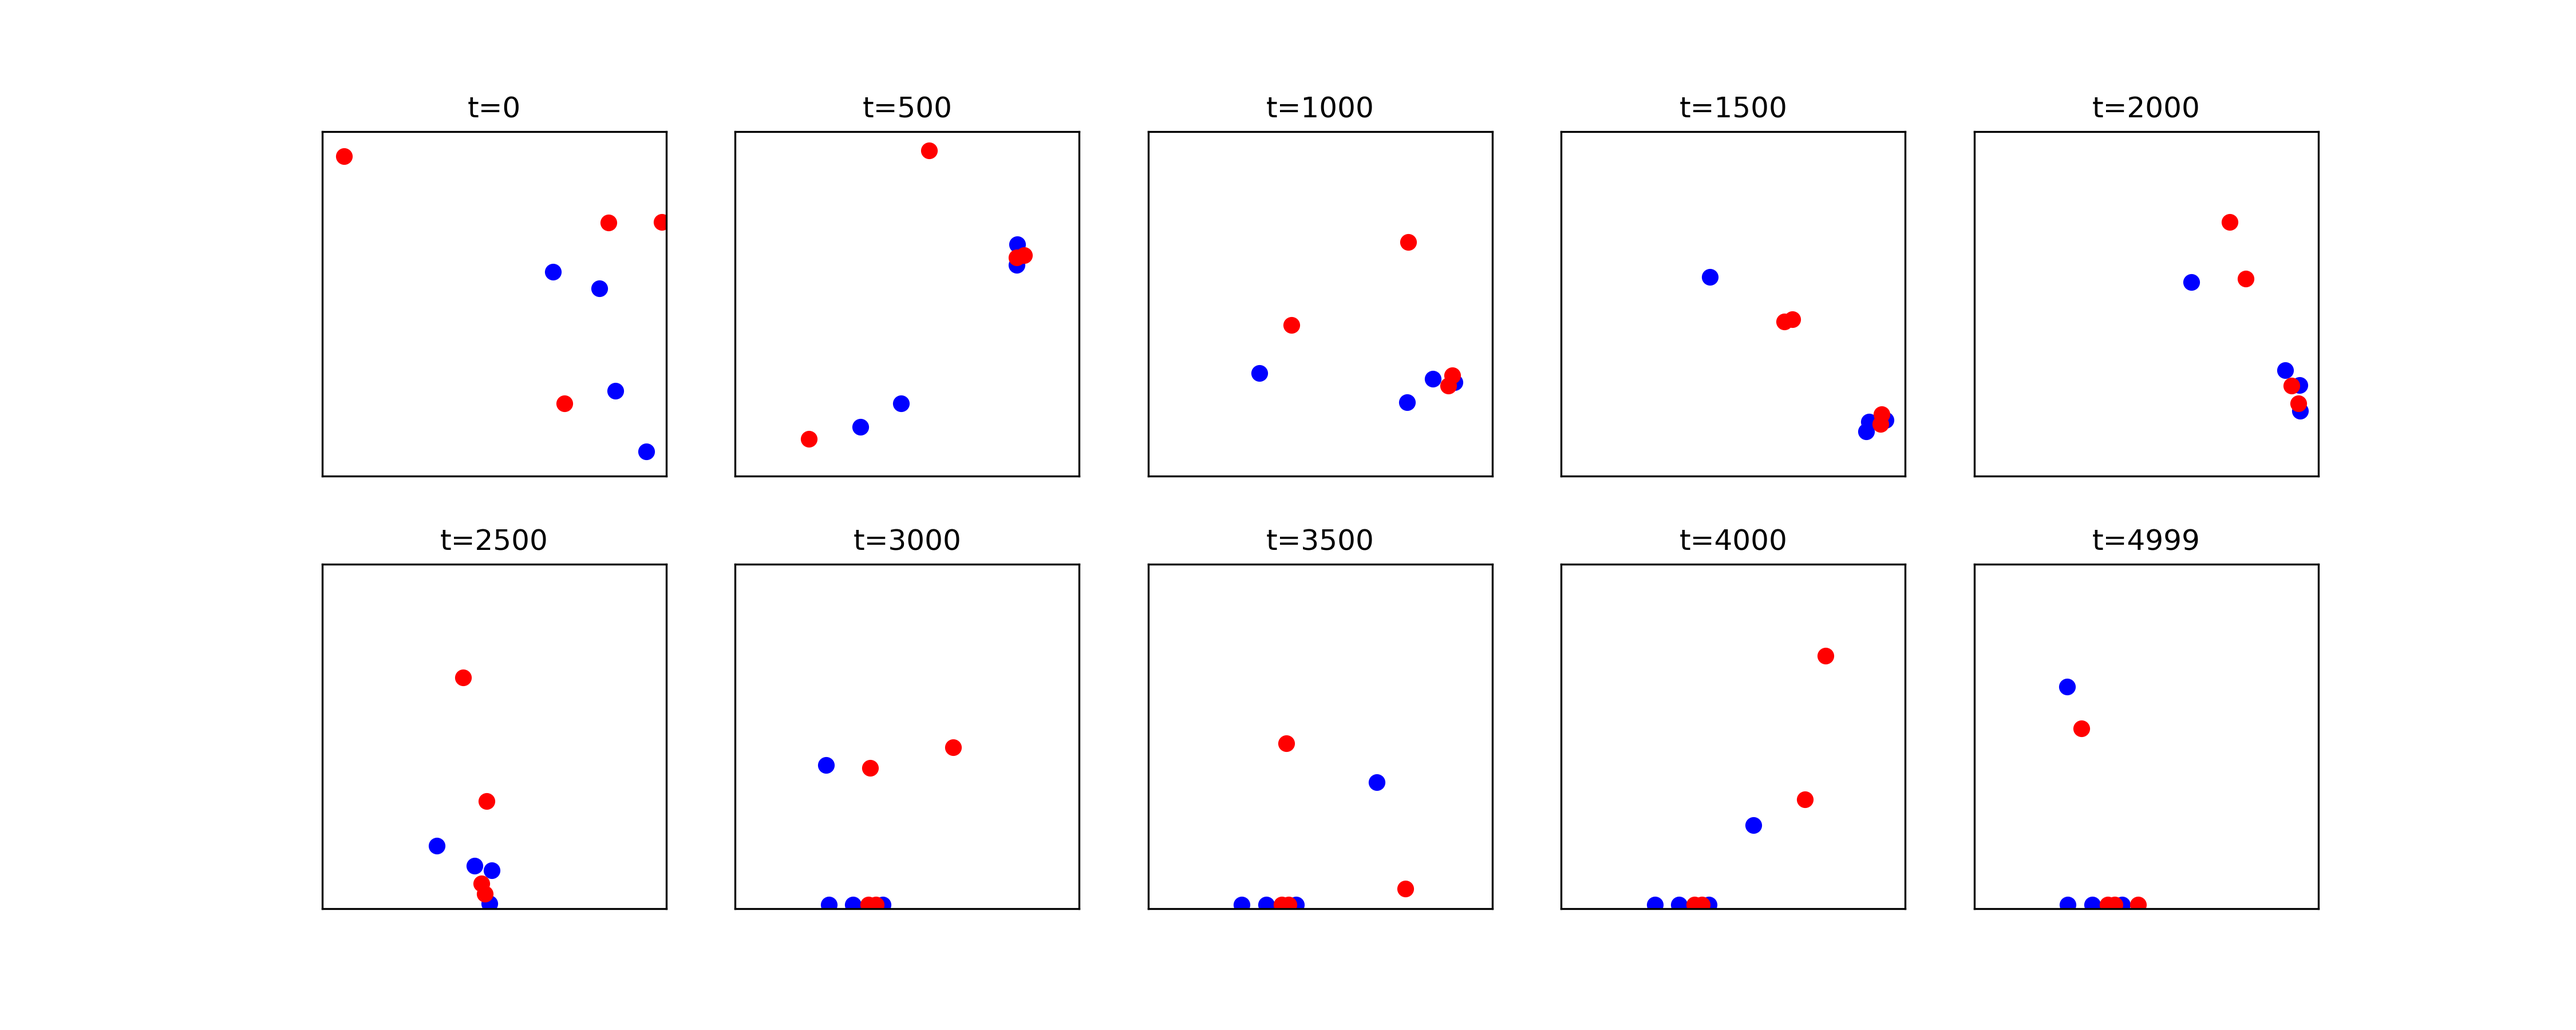
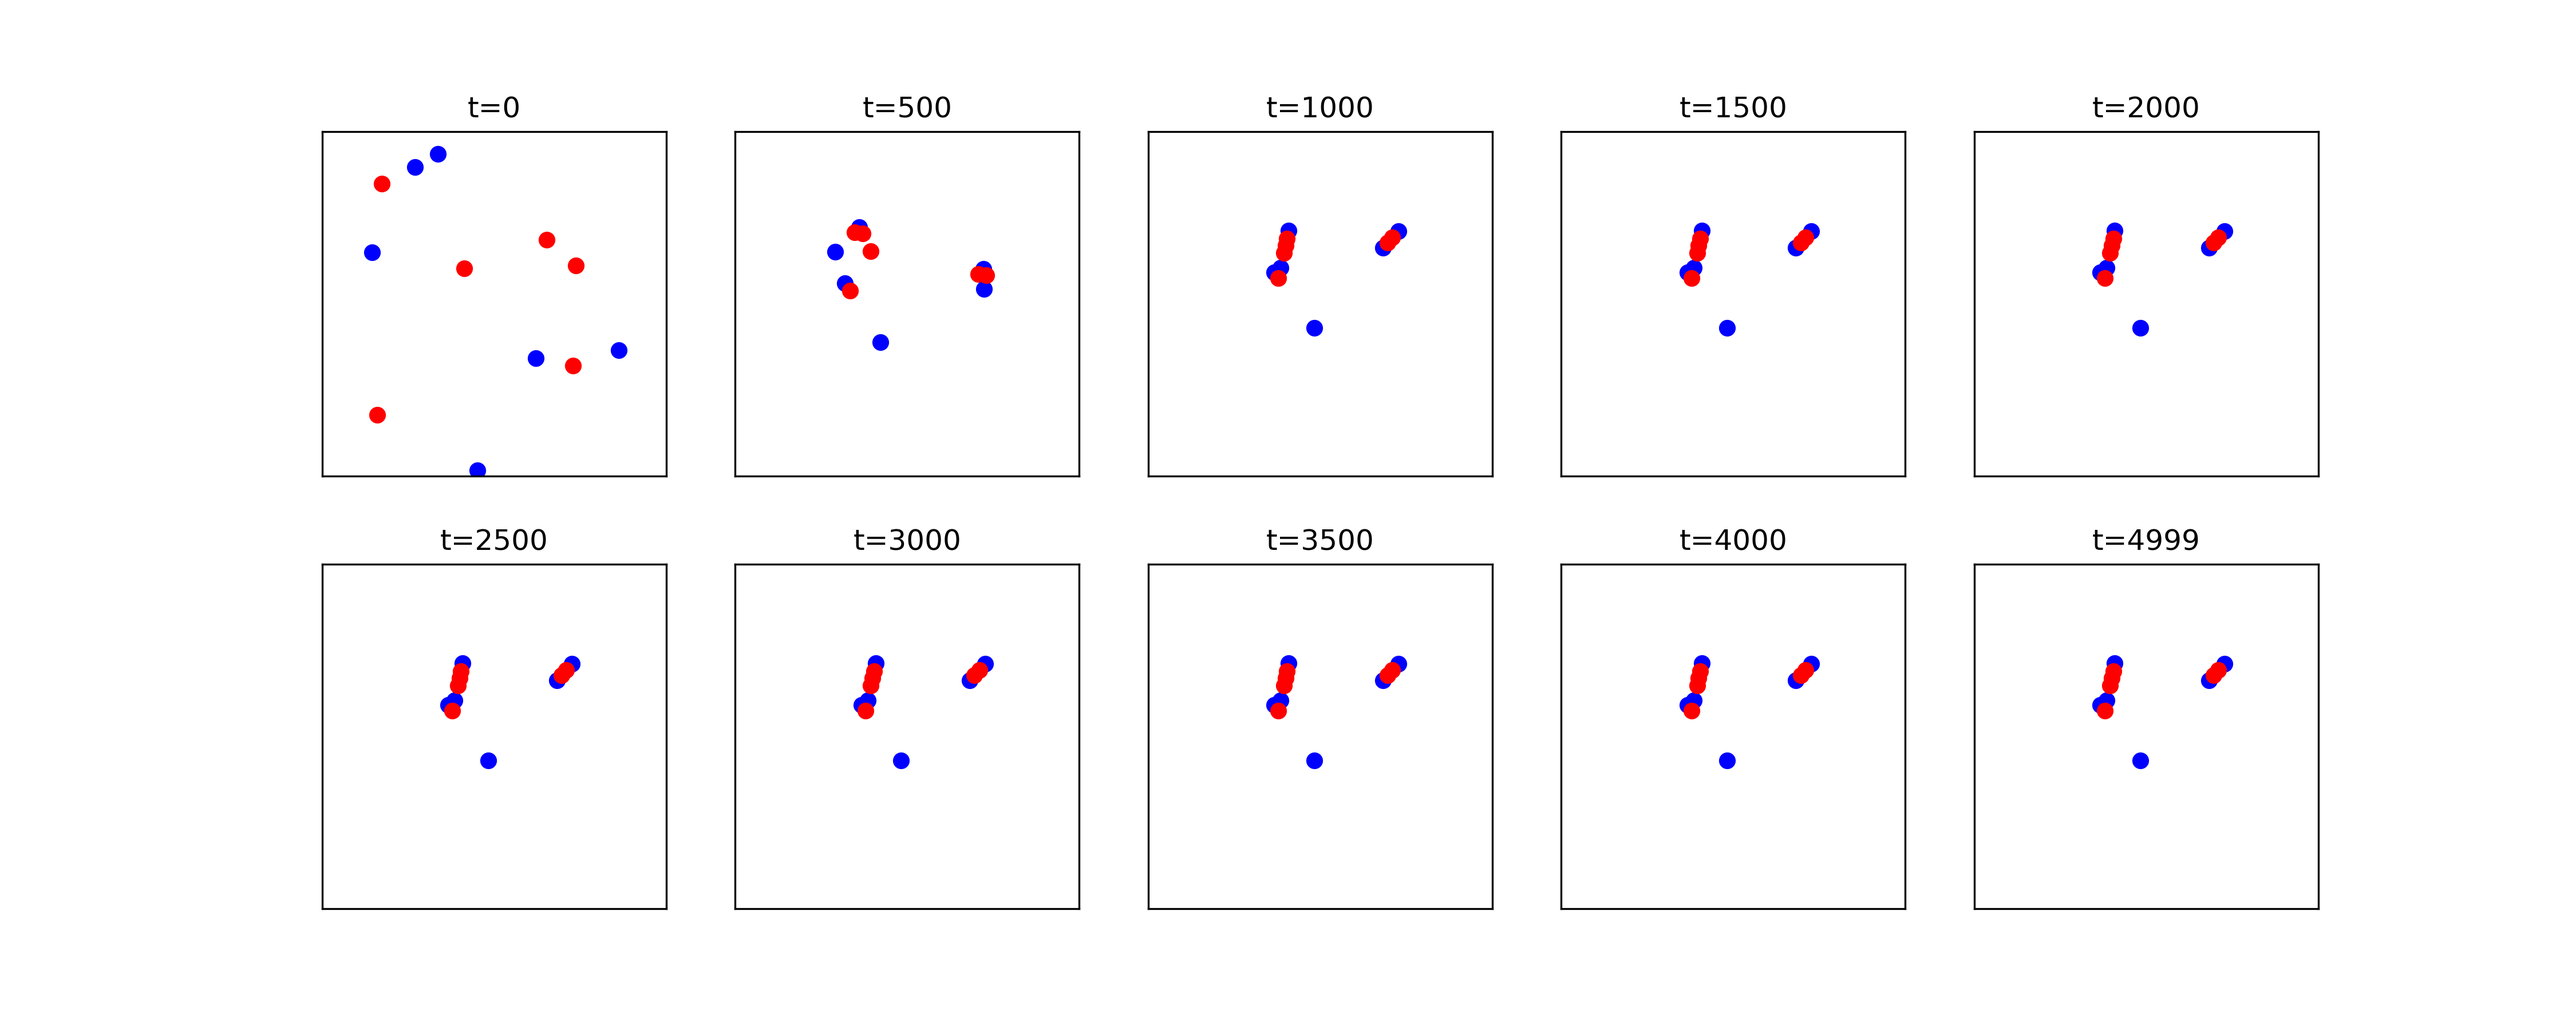
fixed plot_movements

diff --git a/run_multi_agent_sim.py b/run_multi_agent_sim.py
@@ -58,7 +58,7 @@ if __name__ == "__main__":
     ####################
     # Time-lapse plots #
     ####################
-    sim = main(world, plot=False)
+    sim = main(world, plot=True)
 
     fig, axs = plt.subplots(2,5, figsize=(15,6))
     times = np.linspace(0, len(sim.history)-1, 10).astype(int)
@@ -78,136 +78,136 @@ if __name__ == "__main__":
         ax.set_yticks([])
     plt.savefig("figures/time_lapse.png", dpi=300)
 
-    ###########################
-    # Run several simulations #
-    ###########################
-    sims = []
-    # create tqdm
-    N = 100
-    pbar = tqdm(total=N)
-    for i in range(N):
-        sims.append(main(world))
-        pbar.update(1)
-    pbar.close()
+    # ###########################
+    # # Run several simulations #
+    # ###########################
+    # sims = []
+    # # create tqdm
+    # N = 100
+    # pbar = tqdm(total=N)
+    # for i in range(N):
+    #     sims.append(main(world))
+    #     pbar.update(1)
+    # pbar.close()
 
-    ###############
-    # Density Fig #
-    ###############
-    mean_pos_teams = []
-    for sim in sims:
-        # compute the mean position of each team
-        mean_pos_teams.append(get_density(sim,rotate=False))
-    mean_pos_teams = np.array(mean_pos_teams)
+    # ###############
+    # # Density Fig #
+    # ###############
+    # mean_pos_teams = []
+    # for sim in sims:
+    #     # compute the mean position of each team
+    #     mean_pos_teams.append(get_density(sim,rotate=False))
+    # mean_pos_teams = np.array(mean_pos_teams)
 
-    # Create a heatmap of the mean position of each team
-    # Create a grid of worldsize and add an occurrence of 1 at each position of the mean position of each team
-    grid_world = World([-100,100])
-    density = np.zeros((int(grid_world.x_lim[-1]-grid_world.x_lim[0]), 
-                        int(grid_world.y_lim[-1]-grid_world.y_lim[0])))
+    # # Create a heatmap of the mean position of each team
+    # # Create a grid of worldsize and add an occurrence of 1 at each position of the mean position of each team
+    # grid_world = World([-100,100])
+    # density = np.zeros((int(grid_world.x_lim[-1]-grid_world.x_lim[0]), 
+    #                     int(grid_world.y_lim[-1]-grid_world.y_lim[0])))
     
-    for it,data in enumerate(mean_pos_teams):
-        # team A -> +1
-        x,y = pos_to_grid(data[0], density, grid_world)
-        xs,ys = circle_around_index(x,y, 5, density)
-        for x,y in zip(xs,ys):
-            density[x,y] += 1
-        # team B -> -1
-        x,y = pos_to_grid(data[1], density, grid_world)
-        xs,ys = circle_around_index(x,y, 5, density)
-        for x,y in zip(xs,ys):
-            density[x,y] -= 1
+    # for it,data in enumerate(mean_pos_teams):
+    #     # team A -> +1
+    #     x,y = pos_to_grid(data[0], density, grid_world)
+    #     xs,ys = circle_around_index(x,y, 5, density)
+    #     for x,y in zip(xs,ys):
+    #         density[x,y] += 1
+    #     # team B -> -1
+    #     x,y = pos_to_grid(data[1], density, grid_world)
+    #     xs,ys = circle_around_index(x,y, 5, density)
+    #     for x,y in zip(xs,ys):
+    #         density[x,y] -= 1
 
-    # Plot the heatmap
-    fig, ax = plt.subplots()
-    ax.imshow(density.T, cmap='coolwarm', interpolation='hermite',
-              extent=[grid_world.x_lim[0], grid_world.x_lim[1], grid_world.y_lim[0], grid_world.y_lim[1]])
-    # change the x and y ticks to match grid_world
-    x_range = np.linspace(grid_world.x_lim[0], grid_world.x_lim[1], density.shape[0])
-    y_range = np.linspace(grid_world.y_lim[0], grid_world.y_lim[1], density.shape[1])
-    ax.set_xticks(np.arange(grid_world.x_lim[0], grid_world.x_lim[1]+0.1, 20))
-    ax.set_yticks(np.arange(grid_world.y_lim[0], grid_world.y_lim[1]+0.1, 20))
-    plt.savefig("figures/density.png", dpi=300)
+    # # Plot the heatmap
+    # fig, ax = plt.subplots()
+    # ax.imshow(density.T, cmap='coolwarm', interpolation='hermite',
+    #           extent=[grid_world.x_lim[0], grid_world.x_lim[1], grid_world.y_lim[0], grid_world.y_lim[1]])
+    # # change the x and y ticks to match grid_world
+    # x_range = np.linspace(grid_world.x_lim[0], grid_world.x_lim[1], density.shape[0])
+    # y_range = np.linspace(grid_world.y_lim[0], grid_world.y_lim[1], density.shape[1])
+    # ax.set_xticks(np.arange(grid_world.x_lim[0], grid_world.x_lim[1]+0.1, 20))
+    # ax.set_yticks(np.arange(grid_world.y_lim[0], grid_world.y_lim[1]+0.1, 20))
+    # plt.savefig("figures/density.png", dpi=300)
 
-    #####################
-    # Rotated Histogram #
-    #####################
-    # here we get the mean density of both teams, and rotate the mean position of team A to the x-axis
-    # as the agents always converge to a line, we can plot this then on a 1D histogram
-    mean_pos_teams = []
-    for sim in sims:
-        # compute the mean position of each team
-        mean_pos_teams.append(get_density(sim,rotate=True))
-    mean_pos_teams = np.array(mean_pos_teams)
+    # #####################
+    # # Rotated Histogram #
+    # #####################
+    # # here we get the mean density of both teams, and rotate the mean position of team A to the x-axis
+    # # as the agents always converge to a line, we can plot this then on a 1D histogram
+    # mean_pos_teams = []
+    # for sim in sims:
+    #     # compute the mean position of each team
+    #     mean_pos_teams.append(get_density(sim,rotate=True))
+    # mean_pos_teams = np.array(mean_pos_teams)
 
-    # indexing is [simulation, team, x/y]
-    mean_x_pos_teams = mean_pos_teams[:,:,0]
-    mean_x_pos_A = mean_x_pos_teams[:,0]
-    mean_x_pos_B = mean_x_pos_teams[:,1]
+    # # indexing is [simulation, team, x/y]
+    # mean_x_pos_teams = mean_pos_teams[:,:,0]
+    # mean_x_pos_A = mean_x_pos_teams[:,0]
+    # mean_x_pos_B = mean_x_pos_teams[:,1]
 
-    # Create a histogram of the mean position of each team
-    fig, axs = plt.subplots(1,1, figsize=(12,6))
-    axs.hist(mean_x_pos_A, bins=20, alpha=0.5, color='blue', label='Team A')
-    axs.hist(mean_x_pos_B, bins=20, alpha=0.5, color='red', label='Team B')
-    axs.set_xlabel("Mean x position")
-    axs.set_ylabel("Frequency")
-    axs.legend()
-    plt.savefig("figures/histogram.png", dpi=300)
+    # # Create a histogram of the mean position of each team
+    # fig, axs = plt.subplots(1,1, figsize=(12,6))
+    # axs.hist(mean_x_pos_A, bins=20, alpha=0.5, color='blue', label='Team A')
+    # axs.hist(mean_x_pos_B, bins=20, alpha=0.5, color='red', label='Team B')
+    # axs.set_xlabel("Mean x position")
+    # axs.set_ylabel("Frequency")
+    # axs.legend()
+    # plt.savefig("figures/histogram.png", dpi=300)
 
-    ####################
-    # Seperation index #
-    ####################
-    # here we plot the separation index of each simulation
-    # orderliness = avg_inter_team_distance / (avg_intra_team_distance_A + avg_intra_team_distance_B)/2
-    # Get the separation of all sims over time
-    orderlinesses = []
-    intra_team_distances = []
-    for sim in sims:
-        indices = []
-        distances = []
-        # we do this for each sim, loop through the history and get the separation index
-        for sim_state in sim.history:
-            orderliness, total_intra_team_distance = get_separation_index(sim_state)
-            indices.append(orderliness)
-            distances.append(total_intra_team_distance)
-        orderlinesses.append(indices)
-        intra_team_distances.append(distances)
+    # ####################
+    # # Seperation index #
+    # ####################
+    # # here we plot the separation index of each simulation
+    # # orderliness = avg_inter_team_distance / (avg_intra_team_distance_A + avg_intra_team_distance_B)/2
+    # # Get the separation of all sims over time
+    # orderlinesses = []
+    # intra_team_distances = []
+    # for sim in sims:
+    #     indices = []
+    #     distances = []
+    #     # we do this for each sim, loop through the history and get the separation index
+    #     for sim_state in sim.history:
+    #         orderliness, total_intra_team_distance = get_separation_index(sim_state)
+    #         indices.append(orderliness)
+    #         distances.append(total_intra_team_distance)
+    #     orderlinesses.append(indices)
+    #     intra_team_distances.append(distances)
     
-    # Now plot the orderliness over time
-    fig, axs = plt.subplots(1,1, figsize=(12,6))
-    for sim in orderlinesses:
-        axs.plot(sim)
-    axs.set_xlabel("Time")
-    axs.set_ylabel("Orderliness index")
-    plt.savefig("figures/orderliness_index.png", dpi=300)
+    # # Now plot the orderliness over time
+    # fig, axs = plt.subplots(1,1, figsize=(12,6))
+    # for sim in orderlinesses:
+    #     axs.plot(sim)
+    # axs.set_xlabel("Time")
+    # axs.set_ylabel("Orderliness index")
+    # plt.savefig("figures/orderliness_index.png", dpi=300)
 
-    # Now plot the intra team distances over time
-    fig, axs = plt.subplots(1,1, figsize=(12,6))
-    for sim in intra_team_distances:
-        axs.plot(sim)
-    axs.set_xlabel("Time")
-    axs.set_ylabel("Intra team distances")
-    plt.savefig("figures/intra_team_distances_index.png", dpi=300)
+    # # Now plot the intra team distances over time
+    # fig, axs = plt.subplots(1,1, figsize=(12,6))
+    # for sim in intra_team_distances:
+    #     axs.plot(sim)
+    # axs.set_xlabel("Time")
+    # axs.set_ylabel("Intra team distances")
+    # plt.savefig("figures/intra_team_distances_index.png", dpi=300)
 
-    # Create a plot with the mean and standard deviation over time for all the different simulations
-    mean_orderlinesses_index = np.mean(orderlinesses, axis=0)
-    std_orderlinesses_index = np.std(orderlinesses, axis=0)
+    # # Create a plot with the mean and standard deviation over time for all the different simulations
+    # mean_orderlinesses_index = np.mean(orderlinesses, axis=0)
+    # std_orderlinesses_index = np.std(orderlinesses, axis=0)
 
-    mean_intra_team_distances_index = np.mean(intra_team_distances, axis=0)
-    std_intra_team_distances_index = np.std(intra_team_distances, axis=0)
+    # mean_intra_team_distances_index = np.mean(intra_team_distances, axis=0)
+    # std_intra_team_distances_index = np.std(intra_team_distances, axis=0)
 
-    fig, axs = plt.subplots(1,2, figsize=(12,6))
-    axs[0].plot(mean_orderlinesses_index)
-    axs[0].fill_between(range(len(mean_orderlinesses_index)), 
-                     mean_orderlinesses_index-std_orderlinesses_index, 
-                     mean_orderlinesses_index+std_orderlinesses_index, alpha=0.5)
-    axs[0].set_xlabel("Time")
-    axs[0].set_ylabel("Separation index")
+    # fig, axs = plt.subplots(1,2, figsize=(12,6))
+    # axs[0].plot(mean_orderlinesses_index)
+    # axs[0].fill_between(range(len(mean_orderlinesses_index)), 
+    #                  mean_orderlinesses_index-std_orderlinesses_index, 
+    #                  mean_orderlinesses_index+std_orderlinesses_index, alpha=0.5)
+    # axs[0].set_xlabel("Time")
+    # axs[0].set_ylabel("Separation index")
 
-    axs[1].plot(mean_intra_team_distances_index)
-    axs[1].fill_between(range(len(mean_intra_team_distances_index)), 
-                     mean_intra_team_distances_index-std_intra_team_distances_index, 
-                     mean_intra_team_distances_index+std_intra_team_distances_index, alpha=0.5)
-    axs[1].set_xlabel("Time")
-    axs[1].set_ylabel("Intra team distances")
+    # axs[1].plot(mean_intra_team_distances_index)
+    # axs[1].fill_between(range(len(mean_intra_team_distances_index)), 
+    #                  mean_intra_team_distances_index-std_intra_team_distances_index, 
+    #                  mean_intra_team_distances_index+std_intra_team_distances_index, alpha=0.5)
+    # axs[1].set_xlabel("Time")
+    # axs[1].set_ylabel("Intra team distances")
 
-    plt.savefig("figures/indices_mean_std.png", dpi=300)
+    # plt.savefig("figures/indices_mean_std.png", dpi=300)

diff --git a/src/plot_agents.py b/src/plot_agents.py
@@ -3,40 +3,44 @@ from matplotlib import pyplot as plt
 from matplotlib.animation import FuncAnimation
 from matplotlib.patches import Circle, Patch
 
-def animate_agents(i, agent_circles, positions):
+def animate_agents(i, agent_circles, steps):
     """Update the position of each agent's circles (both position and sensing radius)."""
     updated_artists = []
-    for agent_data, position in zip(agent_circles, positions[i]):
+    for agent_data, agent in zip(agent_circles, steps[i]):
         position_circle, sensing_circle = agent_data
-        position_circle.center = position
-        sensing_circle.center = position
+        position_circle.center = agent.position
+        sensing_circle.center = agent.position
         updated_artists.extend([position_circle, sensing_circle])
     return updated_artists
 
 def plot_movements(sim, anim_length=10, anim_fps=12):
     """Animate the movements of all agents, including their sensing radius."""
-
     skip_frames = max(int(len(sim.history)/(anim_length * anim_fps)), 1)
-    positions = np.array(sim.history[::skip_frames])  # Assuming sim.history is a list of positions for each step
+    steps = np.array(sim.history[::skip_frames])  # Assuming sim.history is a list of positions for each step
     
     fig, ax = plt.subplots()
     ax.set_xlim(0, sim.world.world_size)
     ax.set_ylim(0, sim.world.world_size)
 
-    colors = ['red' if agent.agent_type == 'A' else 'blue' if agent.agent_type == 'B' else 'green' for agent in sim.agents]
     agent_circles = []  # This will store tuples of (position_circle, sensing_circle) for each agent
     
-    for pos, color, agent in zip(positions[0], colors, sim.agents):
-        position_circle = Circle(pos, radius=agent.radius, color=color)
+    for agent in steps[0]:
+        if agent.agent_type == 'A':
+            color = 'red'
+        elif agent.agent_type == 'B':
+            color = 'blue'
+        else:
+            color = 'green'
+        position_circle = Circle(agent.position, radius=agent.radius, color=color)
         ax.add_patch(position_circle)
         
         # We can always add the sensing circle because radius=0 if we don't care about it (and you don't see it)
-        sensing_circle = Circle(pos, radius=agent.sensing_radius, color=color, fill=False, linestyle='--')
+        sensing_circle = Circle(agent.position, radius=agent.sensing_radius, color=color, fill=False, linestyle='--')
         ax.add_patch(sensing_circle)
         
         agent_circles.append((position_circle, sensing_circle))
     
-    anim = FuncAnimation(fig, animate_agents, frames=len(positions), interval=1e3/anim_fps, fargs=(agent_circles, positions), blit=True)
+    anim = FuncAnimation(fig, animate_agents, frames=len(steps), interval=1e3/anim_fps, fargs=(agent_circles, steps), blit=True)
     
     ax.set_aspect('equal')
 
